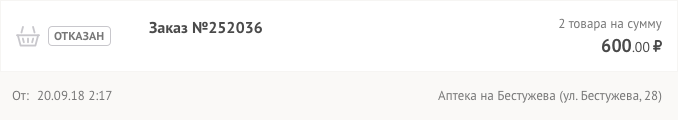
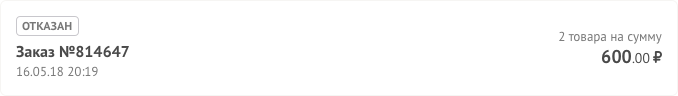
WiP

diff --git a/css/styles.css b/css/styles.css
@@ -50,18 +50,20 @@ body {
 }
 .row {
 /*    background: url(../images/Card-Normal-1.png);*/
-    height: 120px;
-    box-shadow: 0px 2px 2px rgba(0, 0, 0, 0.1);
+    height: 96px;
+    border-radius: 6px;
+    cursor: pointer;
+
 }
 .row:hover {
-    box-shadow: 0px 4px 8px rgba(0, 0, 0, 0.1);
+    box-shadow: 0px 2px 2px rgba(0, 0, 0, 0.1);
 }
 .active {
     background: red;
-    height: 184px;
+    height: 457px;
 }
 .row + .row {
-    margin-top: 16px;
+    margin-top: 6px;
 }
 .days{
     background: url(../orderListImage/10Days.png) no-repeat;
